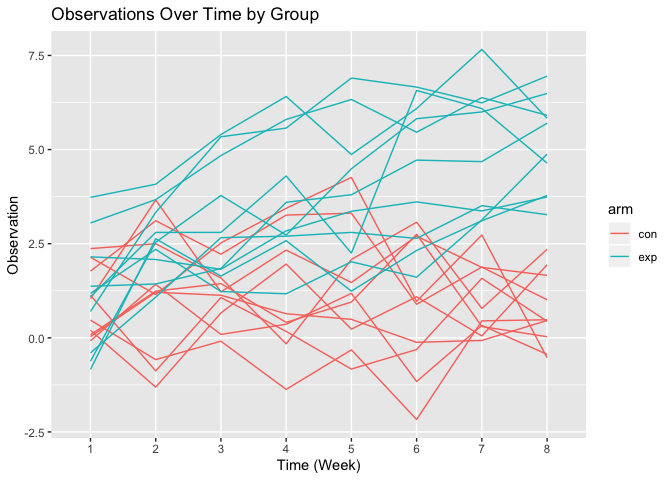
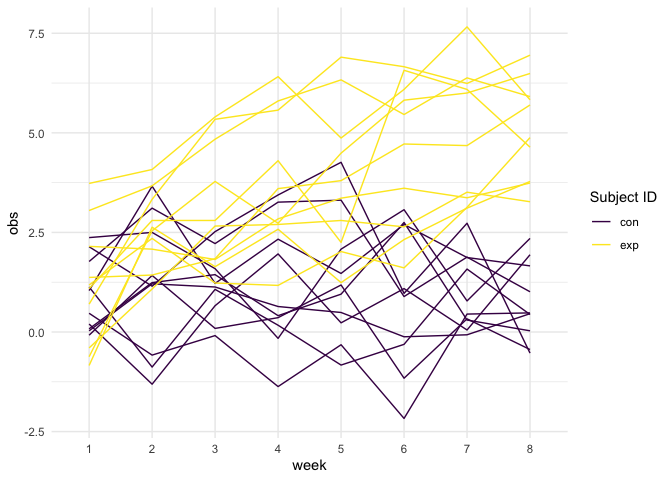
Problem 3

diff --git a/p8105_hw5_ts3175.md b/p8105_hw5_ts3175.md
@@ -9,14 +9,14 @@ Tanu
 library(tidyverse)
 ```
 
-    ## ── Attaching packages ──────────────────────────────────────────────────────────────── tidyverse 1.2.1 ──
+    ## ── Attaching packages ─────────────────────────── tidyverse 1.2.1 ──
 
     ## ✔ ggplot2 3.2.1     ✔ purrr   0.3.2
     ## ✔ tibble  2.1.3     ✔ dplyr   0.8.3
     ## ✔ tidyr   1.0.0     ✔ stringr 1.4.0
     ## ✔ readr   1.3.1     ✔ forcats 0.4.0
 
-    ## ── Conflicts ─────────────────────────────────────────────────────────────────── tidyverse_conflicts() ──
+    ## ── Conflicts ────────────────────────────── tidyverse_conflicts() ──
     ## ✖ dplyr::filter() masks stats::filter()
     ## ✖ dplyr::lag()    masks stats::lag()
 
@@ -43,6 +43,8 @@ output = map(iris_with_missing, iris_no_missing)
 ```
 
 # Problem 2
+
+Loading data
 
 ``` r
 df= 
@@ -275,9 +277,12 @@ df=
     ## Warning: `cols` is now required.
     ## Please use `cols = c(df)`
 
+Cleaning data
+
 ``` r
 df1 =
 df %>%
+janitor::clean_names() %>% 
   mutate(
     participant= str_remove(participant, "data//"),
     participant= str_remove(participant, ".csv")
@@ -299,19 +304,152 @@ df2 =
           ) 
 ```
 
+Plotting data
+
 ``` r
 df2 %>% 
   ggplot(aes(x= week, y= obs, color= arm, group= participant2)) +
-  geom_line() +
-  labs(
-    title = "Observations Over Time by Group" ,
-      x= "Time (Week)",
-      y = "Observation"
-  )
+  geom_line() + 
+ viridis::scale_color_viridis(
+ name = "Subject ID", 
+ discrete = TRUE, 
+ option = "viridis"
+ ) + 
+ theme_minimal()
 ```
 
 ![](p8105_hw5_ts3175_files/figure-gfm/unnamed-chunk-7-1.png)<!-- -->
 
+``` r
+  labs(
+    title = "Observations Over Time by Group" ,
+      x= "Time (Week)",
+      y = "Observation"
+  ) 
+```
+
+    ## $x
+    ## [1] "Time (Week)"
+    ## 
+    ## $y
+    ## [1] "Observation"
+    ## 
+    ## $title
+    ## [1] "Observations Over Time by Group"
+    ## 
+    ## attr(,"class")
+    ## [1] "labels"
+
 The experimental group had higher observations overtime while the
 control group experienced about the same observations from begining of
 the 8 weeks until the end with a slight overall decrese.
+
+# Problem 3
+
+Creating a function
+
+``` r
+set.seed(10)
+
+sim_regression = function(n = 30, beta0 = 2, beta1 = 0) {
+  
+  sim_data = tibble(
+    x = rnorm(n),
+    y = beta0 + beta1 * x + rnorm(n, 0, sqrt(50))
+    )
+  
+  ls_fit = lm(y ~ x, data = sim_data) %>% 
+    broom::tidy()
+  
+  tibble(
+    be1 = ls_fit[[2, 2]],
+    p_value = ls_fit[[2, 5]])
+
+}
+```
+
+Generating 10000 datasets from the model above
+
+``` r
+sim_results =
+  tibble(
+    beta1 = c(0,1,2,3,4,5,6)) %>% 
+  mutate(
+    output_list = map(.x = beta1, ~rerun(10000, sim_regression(beta1 = .x))),
+         estimate = map(output_list, bind_rows)) %>% 
+  select(-output_list) %>% 
+  unnest(estimate)
+```
+
+Plotting
+
+``` r
+plot1_data=
+sim_results %>% 
+  group_by(beta1) %>% 
+  count(rejected = p_value < 0.05) %>% 
+  mutate(proportion = n/sum(n)*100) %>% 
+  filter(rejected == TRUE)
+```
+
+``` r
+plot1_data %>% 
+ggplot(aes(x = beta1, y = proportion)) +
+  geom_point() + 
+  geom_line() +
+  labs(
+    title = "The Proportion of Times Null Rejected and True β1",
+    x = "True Value of β1",
+   y = "Proportion of Times Null Rejected" )
+```
+
+![](p8105_hw5_ts3175_files/figure-gfm/unnamed-chunk-11-1.png)<!-- -->
+
+The power increased as the value of beta 1 increased. As power
+increases, the effect size also increases because the effect becomes
+easier to detect.
+
+``` r
+plot2_data =
+sim_results %>%
+  group_by(beta1) %>% 
+  mutate(
+    avg_est = mean(be1)
+  )
+```
+
+``` r
+plot3_data =
+sim_results %>% 
+group_by(beta1) %>% 
+filter(p_value <0.05) %>% 
+mutate(
+    avg_reg = mean(be1)
+  )
+```
+
+``` r
+ggplot() +
+  geom_line(data= plot3_data, (aes(x = beta1, y = avg_reg)), color = "blue") +
+  geom_point(data= plot3_data, (aes(x = beta1, y = avg_reg)), color = "blue") +
+  geom_line(data= plot2_data, (aes(x = beta1, y = avg_est)), color = "black") +
+  geom_point(data= plot2_data, (aes(x = beta1, y = avg_est)), color = "black") +
+  labs(
+    title = "The Average Estimate of β1 and the True Value of β1",  
+    x = "True Value of β1",
+    y = "The Average Estimate of β1"
+  )
+```
+
+![](p8105_hw5_ts3175_files/figure-gfm/unnamed-chunk-14-1.png)<!-- -->
+The plot above shows the relationship between the average of the beta1
+estimates and the true value of beta1. The black line shows this
+relationship for the whole dataset. The overlayed blue line shows the
+relationship for a subset of the data in which the null was rejected.
+The sample average of beta1 estimates for which the null is rejected is
+slighltly larger than the true value of beta1. This is because, by
+definition, rejecting the null means that the beta1 estimate of those
+tests were different enough from the true value of beta1 that it was
+statistically significant. The plot illustrates this definition because
+it shows that on average, all of the values, except for when beta1 is 0,
+is higher in the subset of the data in which the null was rejected.
